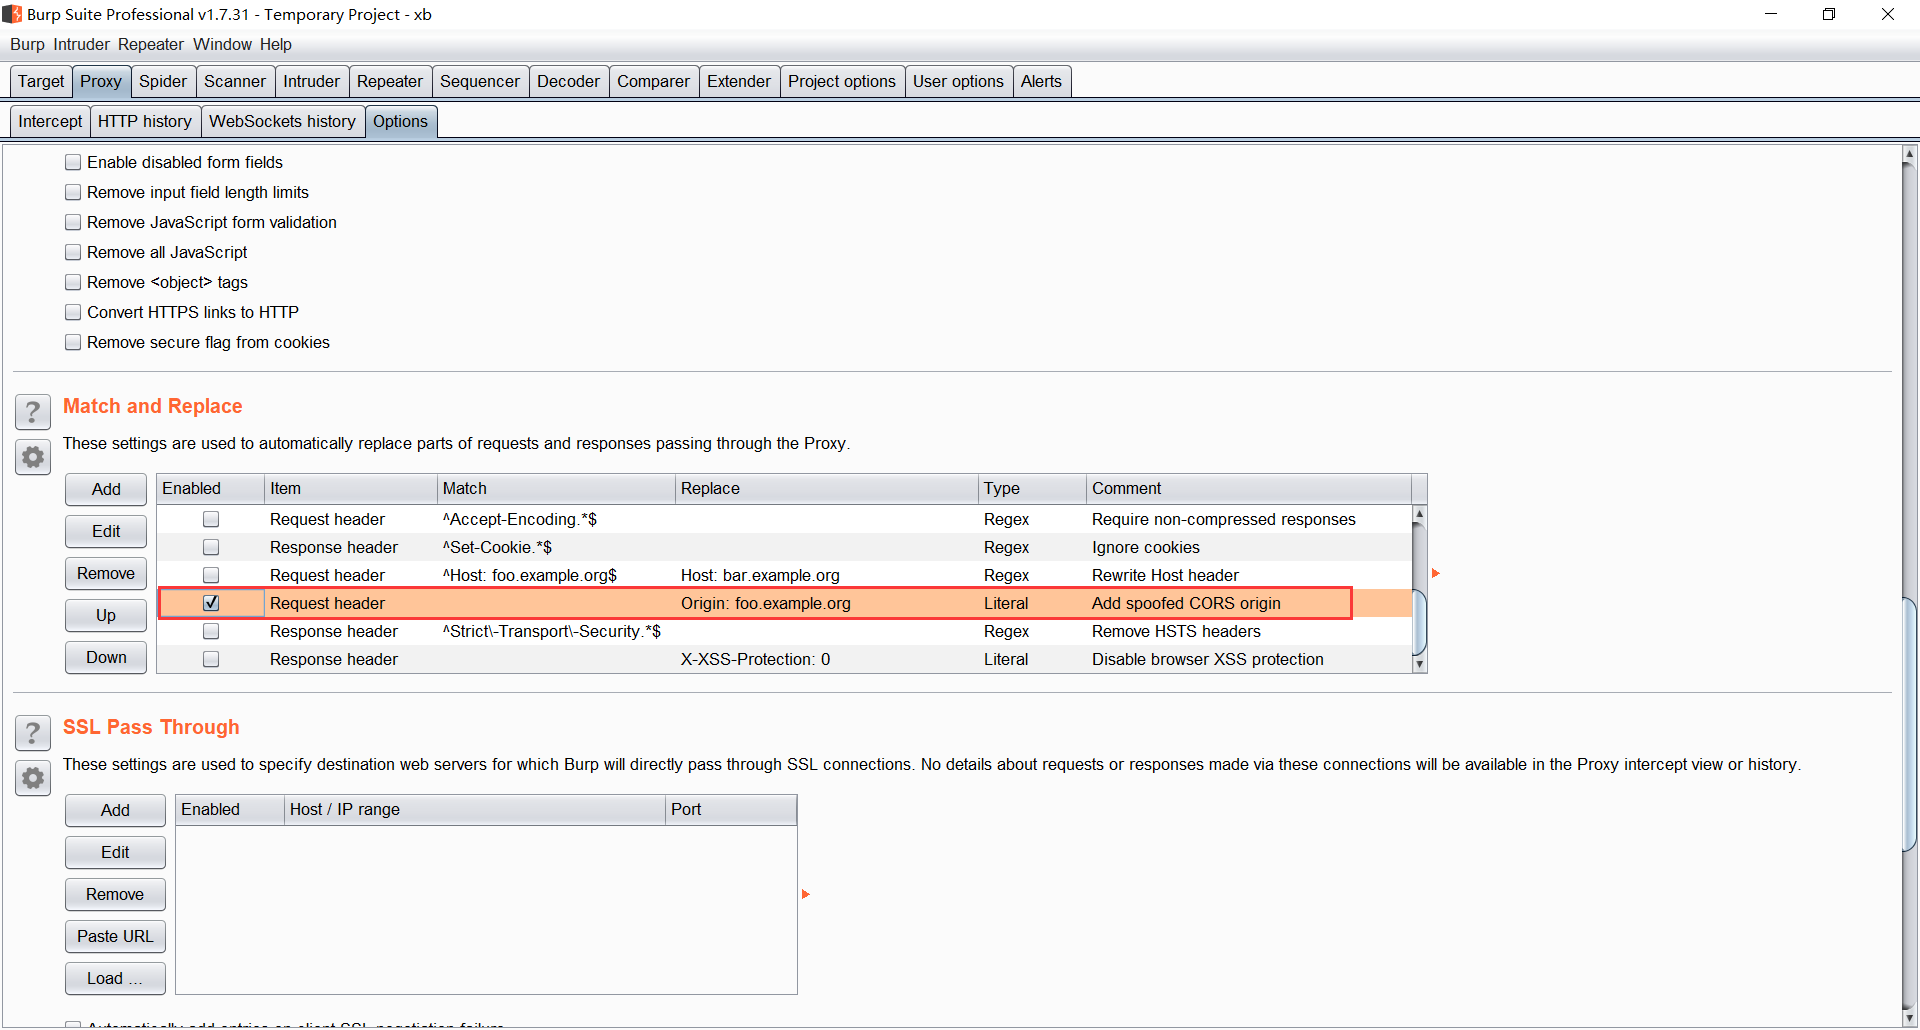
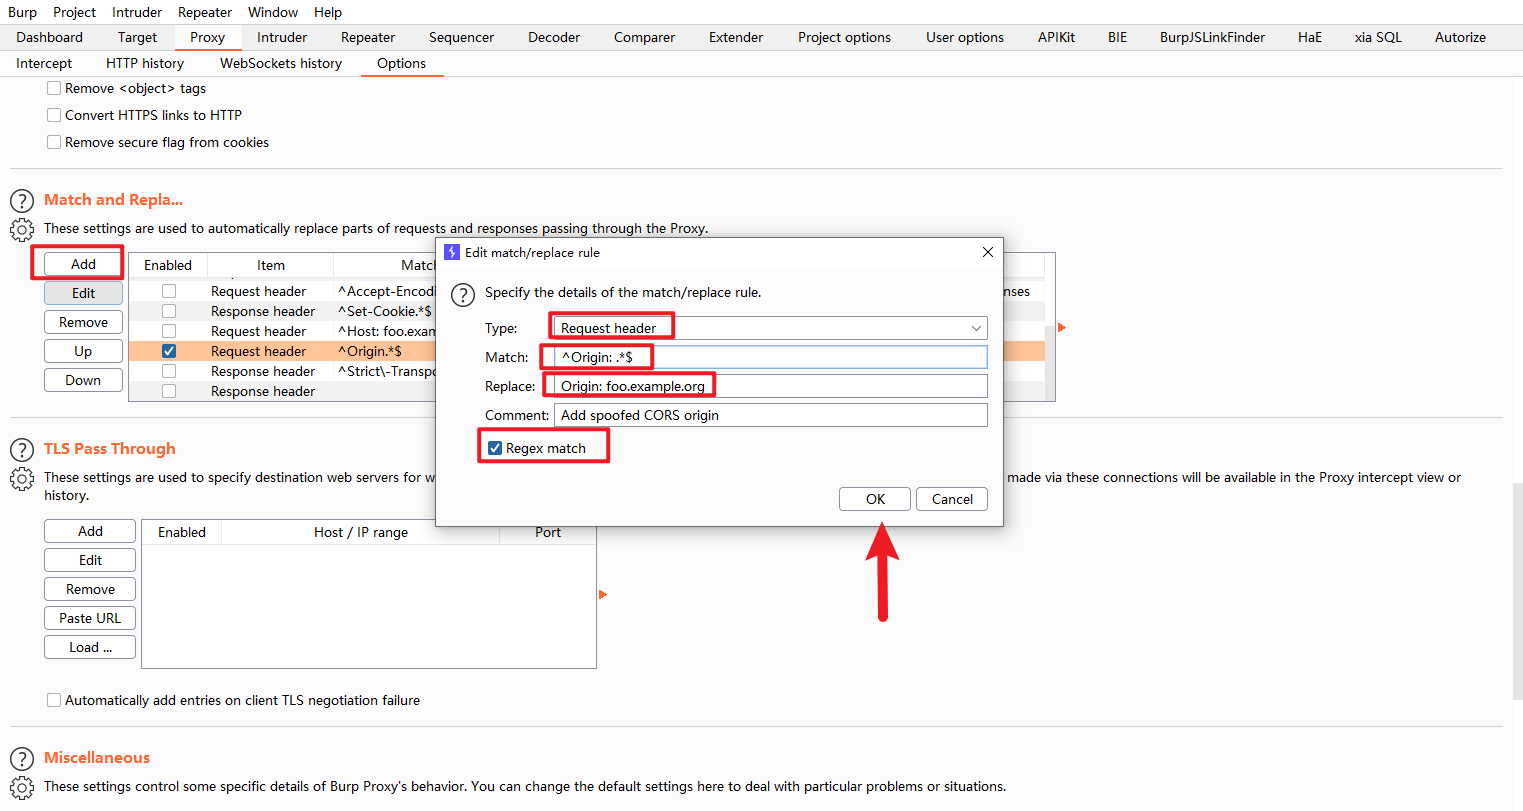
Site updated: 2022-05-10 21:56:27

Changed region(s): [[0.0, 0.0, 1.0, 1.0]]

diff --git a/2020/03/11/BurpSuite自动化检测CORS漏洞/index.html b/2020/03/11/BurpSuite自动化检测CORS漏洞/index.html
@@ -88,8 +88,9 @@
 <meta property="og:locale">
 <meta property="og:image" content="https://assassins-white.github.io/img/20-3-11/1.png">
 <meta property="og:image" content="https://assassins-white.github.io/img/20-3-11/2.png">
+<meta property="og:image" content="https://assassins-white.github.io/img/20-3-11/3.png">
 <meta property="article:published_time" content="2020-03-11T13:44:49.000Z">
-<meta property="article:modified_time" content="2022-04-26T08:10:15.083Z">
+<meta property="article:modified_time" content="2022-05-10T13:56:16.416Z">
 <meta property="article:author" content="Assassins 小白">
 <meta property="article:tag" content="BurpSuite">
 <meta property="article:tag" content="自动化">
@@ -343,12 +344,10 @@
 <hr>
 <span id="more"></span>
 
-
 <p>BurpSuite的 <code>Match and Replace</code> 如下图设置</p>
-<p><img src="../../../../img/20-3-11/1.png" alt="Assassins小白"></p>
-<p>然后就会自动 加上/替换 Origin头为 <code>foo.example.org</code></p>
-<p><img src="../../../../img/20-3-11/2.png" alt="Assassins小白"></p>
-<p>然后再寻找返回头里面存在 <code>Origin: foo.example.org</code> 的就可以了，可以使用search</p>
+<p>图下框起来的地方按我的方式填写<br>Match:  <code>^Origin: .*$</code><br>Replace:  <code>Origin: foo.example.org</code><br><img src="../../../../img/20-3-11/1.png" alt="Assassins小白"></p>
+<p>然后就会自动替换Origin头为: <code>foo.example.org</code><br><img src="../../../../img/20-3-11/2.png" alt="Assassins小白"></p>
+<p>切换到 <code>Auth-modified request</code> 请求查看修改后的请求，也可以使用search<br><img src="../../../../img/20-3-11/3.png" alt="Assassins小白"></p>
 
       
     </div>
